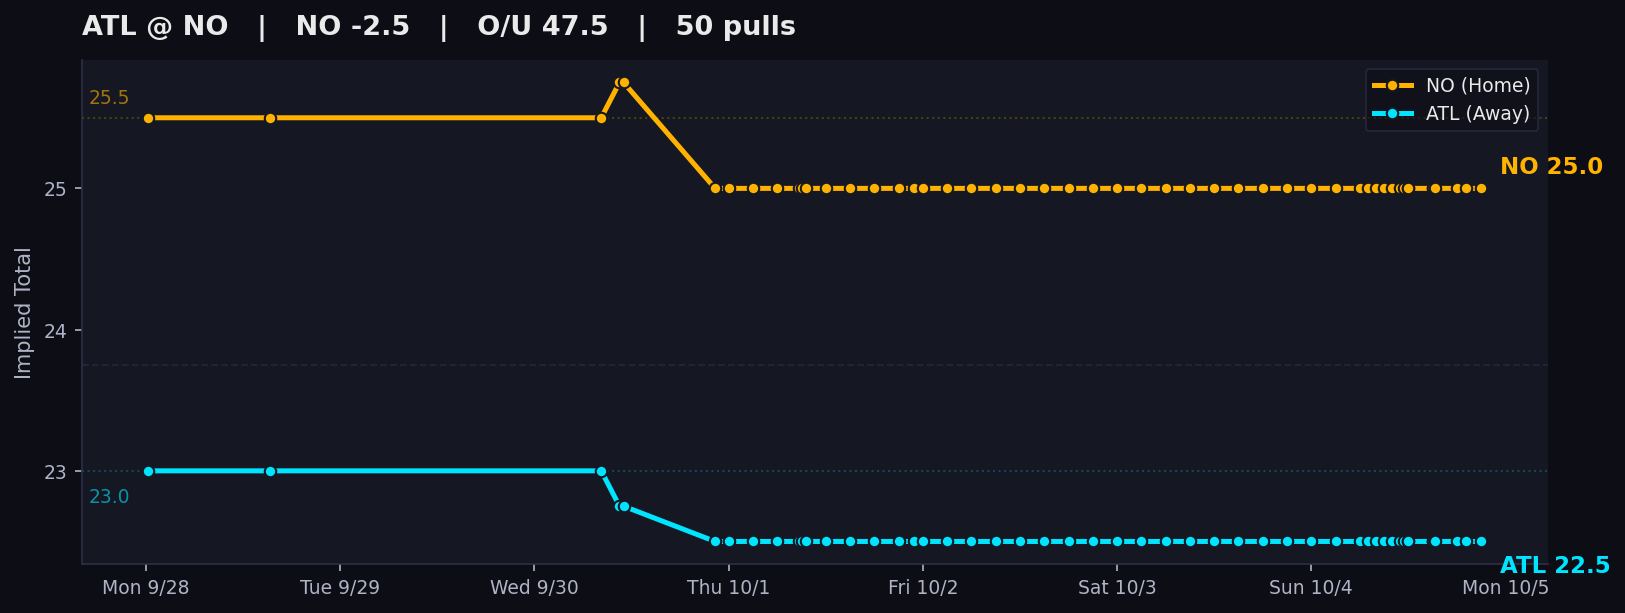
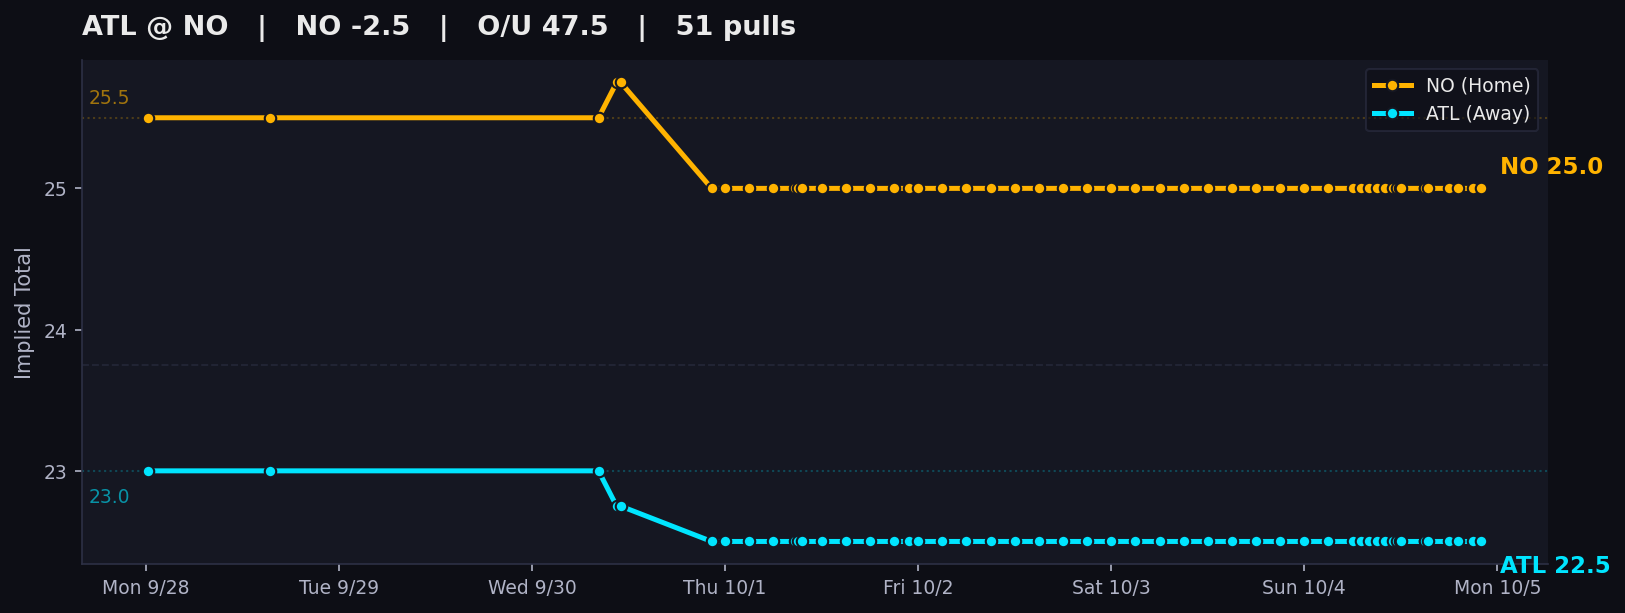
auto: local tracker sync

diff --git a/charts/index.html b/charts/index.html
@@ -311,7 +311,7 @@
     </div>
     <p class='sub'>
       DraftKings main lines &middot; Pinnacle cross-check &middot; Updated by the local Mac tracker<br>
-      Page rendered Sun Oct 04, 2026 9:00 PM CDT &middot; 755 valid chart dots &middot; 905 total pull attempts
+      Page rendered Sun Oct 04, 2026 10:00 PM CDT &middot; 756 valid chart dots &middot; 907 total pull attempts
       <span class='legend-box'>
         <span class='dot-teal'>● Away implied total</span>
         <span class='dot-amber'>● Home implied total</span>
@@ -324,9 +324,9 @@
     </details>
   </header>
 
-  <div id='feed-banner' class='alert-banner warning' data-banner-kind='failed' data-feed-ts='2026-10-05T02:00:02.062590+00:00' data-feed-ts-label='Sun Oct 04, 9:00 PM CDT'>
+  <div id='feed-banner' class='alert-banner warning' data-banner-kind='failed' data-feed-ts='2026-10-05T03:00:02.267186+00:00' data-feed-ts-label='Sun Oct 04, 10:00 PM CDT'>
             <span class='alert-icon'>⚠</span>
-            <b>SCRAPER DEGRADED:</b> Odds pull was incomplete at 9:00 PM CDT (Missing complete DraftKings market for 1 of 16 games: DET@ARI). Displaying the last verified line for affected games (oldest line: Sun Oct 04, 9:00 PM CDT, just now). Check the local runner log for details.
+            <b>SCRAPER DEGRADED:</b> Odds pull was incomplete at 10:00 PM CDT (Missing complete DraftKings market for 1 of 16 games: DET@ARI). Displaying the last verified line for affected games (oldest line: Sun Oct 04, 10:00 PM CDT, just now). Check the local runner log for details.
         </div>
 
   <nav class='filter-bar' aria-label='Filter games by slate'>
@@ -396,7 +396,7 @@
                 <div><span>Last valid pull</span><strong>Thu 6:00 PM CT</strong></div>
                 <div><span>Chart dots</span><strong>20</strong></div>
             </div>
-                    <img class='expanded-chart' src='PIT_CLE.png?v=1791165620' alt='PIT at CLE line movement chart'>
+                    <img class='expanded-chart' src='PIT_CLE.png?v=1791169220' alt='PIT at CLE line movement chart'>
                     <p class='movement-note'>Total 38.5 → 37.5</p>
                 </div>
             </td>
@@ -437,7 +437,7 @@
                 <div><span>Last valid pull</span><strong>8:00 AM CT</strong></div>
                 <div><span>Chart dots</span><strong>46</strong></div>
             </div>
-                    <img class='expanded-chart' src='IND_WAS.png?v=1791165620' alt='IND at WAS line movement chart'>
+                    <img class='expanded-chart' src='IND_WAS.png?v=1791169220' alt='IND at WAS line movement chart'>
                     <p class='movement-note'>Spread IND -3.5 → -4.5</p>
                 </div>
             </td>
@@ -478,7 +478,7 @@
                 <div><span>Last valid pull</span><strong>12:00 PM CT</strong></div>
                 <div><span>Chart dots</span><strong>50</strong></div>
             </div>
-                    <img class='expanded-chart' src='ARI_NYG.png?v=1791165620' alt='ARI at NYG line movement chart'>
+                    <img class='expanded-chart' src='ARI_NYG.png?v=1791169220' alt='ARI at NYG line movement chart'>
                     <p class='movement-note'>Spread ARI +1.5 → -2.5; Total 43.5 → 44.5</p>
                 </div>
             </td>
@@ -513,7 +513,7 @@
                 <div><span>Last valid pull</span><strong>12:00 PM CT</strong></div>
                 <div><span>Chart dots</span><strong>48</strong></div>
             </div>
-                    <img class='expanded-chart' src='LAR_PHI.png?v=1791165620' alt='LAR at PHI line movement chart'>
+                    <img class='expanded-chart' src='LAR_PHI.png?v=1791169220' alt='LAR at PHI line movement chart'>
                     <p class='movement-note'>Spread LAR -2.5 → -3.5; Total 46.5 → 42.5</p>
                 </div>
             </td>
@@ -548,7 +548,7 @@
                 <div><span>Last valid pull</span><strong>12:00 PM CT</strong></div>
                 <div><span>Chart dots</span><strong>50</strong></div>
             </div>
-                    <img class='expanded-chart' src='GB_TB.png?v=1791165620' alt='GB at TB line movement chart'>
+                    <img class='expanded-chart' src='GB_TB.png?v=1791169220' alt='GB at TB line movement chart'>
                     <p class='movement-note'>Total 42.5 → 38.5</p>
                 </div>
             </td>
@@ -583,7 +583,7 @@
                 <div><span>Last valid pull</span><strong>12:00 PM CT</strong></div>
                 <div><span>Chart dots</span><strong>48</strong></div>
             </div>
-                    <img class='expanded-chart' src='TEN_BAL.png?v=1791165620' alt='TEN at BAL line movement chart'>
+                    <img class='expanded-chart' src='TEN_BAL.png?v=1791169220' alt='TEN at BAL line movement chart'>
                     <p class='movement-note'>Total 43.5 → 42.5</p>
                 </div>
             </td>
@@ -618,7 +618,7 @@
                 <div><span>Last valid pull</span><strong>12:00 PM CT</strong></div>
                 <div><span>Chart dots</span><strong>51</strong></div>
             </div>
-                    <img class='expanded-chart' src='NE_BUF.png?v=1791165620' alt='NE at BUF line movement chart'>
+                    <img class='expanded-chart' src='NE_BUF.png?v=1791169220' alt='NE at BUF line movement chart'>
                     <p class='movement-note'>Total 48.5 → 49.5</p>
                 </div>
             </td>
@@ -653,7 +653,7 @@
                 <div><span>Last valid pull</span><strong>12:00 PM CT</strong></div>
                 <div><span>Chart dots</span><strong>50</strong></div>
             </div>
-                    <img class='expanded-chart' src='JAX_CIN.png?v=1791165620' alt='JAX at CIN line movement chart'>
+                    <img class='expanded-chart' src='JAX_CIN.png?v=1791169220' alt='JAX at CIN line movement chart'>
                     <p class='movement-note'>Total 50.5 → 51.5</p>
                 </div>
             </td>
@@ -688,7 +688,7 @@
                 <div><span>Last valid pull</span><strong>12:00 PM CT</strong></div>
                 <div><span>Chart dots</span><strong>50</strong></div>
             </div>
-                    <img class='expanded-chart' src='DAL_HOU.png?v=1791165620' alt='DAL at HOU line movement chart'>
+                    <img class='expanded-chart' src='DAL_HOU.png?v=1791169220' alt='DAL at HOU line movement chart'>
                     <p class='movement-note'>Spread HOU -2.5 → -3.0; Total 47.5 → 48.5</p>
                 </div>
             </td>
@@ -723,7 +723,7 @@
                 <div><span>Last valid pull</span><strong>12:00 PM CT</strong></div>
                 <div><span>Chart dots</span><strong>50</strong></div>
             </div>
-                    <img class='expanded-chart' src='NYJ_CHI.png?v=1791165620' alt='NYJ at CHI line movement chart'>
+                    <img class='expanded-chart' src='NYJ_CHI.png?v=1791169220' alt='NYJ at CHI line movement chart'>
                     <p class='movement-note'>Spread CHI -3.0 → -3.5; Total 42.5 → 43.5</p>
                 </div>
             </td>
@@ -764,7 +764,7 @@
                 <div><span>Last valid pull</span><strong>3:00 PM CT</strong></div>
                 <div><span>Chart dots</span><strong>49</strong></div>
             </div>
-                    <img class='expanded-chart' src='MIA_MIN.png?v=1791165620' alt='MIA at MIN line movement chart'>
+                    <img class='expanded-chart' src='MIA_MIN.png?v=1791169220' alt='MIA at MIN line movement chart'>
                     <p class='movement-note'>Total 39.5 → 38.5</p>
                 </div>
             </td>
@@ -799,7 +799,7 @@
                 <div><span>Last valid pull</span><strong>3:20 PM CT</strong></div>
                 <div><span>Chart dots</span><strong>50</strong></div>
             </div>
-                    <img class='expanded-chart' src='DEN_SF.png?v=1791165620' alt='DEN at SF line movement chart'>
+                    <img class='expanded-chart' src='DEN_SF.png?v=1791169220' alt='DEN at SF line movement chart'>
                     <p class='movement-note'>Total 46.5 → 47.5</p>
                 </div>
             </td>
@@ -834,7 +834,7 @@
                 <div><span>Last valid pull</span><strong>3:20 PM CT</strong></div>
                 <div><span>Chart dots</span><strong>47</strong></div>
             </div>
-                    <img class='expanded-chart' src='KC_LVR.png?v=1791165620' alt='KC at LVR line movement chart'>
+                    <img class='expanded-chart' src='KC_LVR.png?v=1791169220' alt='KC at LVR line movement chart'>
                     <p class='movement-note'>Spread KC -5.5 → -4.5</p>
                 </div>
             </td>
@@ -869,7 +869,7 @@
                 <div><span>Last valid pull</span><strong>3:20 PM CT</strong></div>
                 <div><span>Chart dots</span><strong>47</strong></div>
             </div>
-                    <img class='expanded-chart' src='LAC_SEA.png?v=1791165620' alt='LAC at SEA line movement chart'>
+                    <img class='expanded-chart' src='LAC_SEA.png?v=1791169220' alt='LAC at SEA line movement chart'>
                     <p class='movement-note'>Spread SEA -6.5 → -7.0; Total 43.5 → 42.5</p>
                 </div>
             </td>
@@ -910,7 +910,7 @@
                 <div><span>Last valid pull</span><strong>7:10 PM CT</strong></div>
                 <div><span>Chart dots</span><strong>49</strong></div>
             </div>
-                    <img class='expanded-chart' src='DET_CAR.png?v=1791165620' alt='DET at CAR line movement chart'>
+                    <img class='expanded-chart' src='DET_CAR.png?v=1791169220' alt='DET at CAR line movement chart'>
                     <p class='movement-note'>Spread DET -3.5 → -4.5; Total 50.5 → 51.5</p>
                 </div>
             </td>
@@ -926,13 +926,13 @@
             <td><b>NO -2.5</b></td>
             <td class='flat'>--</td>
             <td>48.5</td>
-            <td><b>47.5</b></td>
+            <td><b>47.5</b> <span class='div' title='Pinnacle divergence ≥ 1 pt'>*</span></td>
             <td class='delta'><span class='movement-badge'>1.0</span></td>
             <td class='it-away'>ATL 22.5</td>
             <td class='it-home'>NO 25.0</td>
             <td class='reason' title='Total 48.5 → 47.5'>Total 48.5 → 47.5</td>
-            <td style='text-align:center;'><span class='pill-fresh'>9:00 PM CT</span></td>
-            <td class='snaps'>50</td>
+            <td style='text-align:center;'><span class='pill-fresh'>10:00 PM CT</span></td>
+            <td class='snaps'>51</td>
         </tr>
         <tr id='desktop-panel-ATL_NO' class='chart-detail-row' data-slate='MNF' data-game-panel='ATL_NO' hidden>
             <td colspan='12'>
@@ -948,10 +948,10 @@
                 <div><span>Current total</span><strong>47.5</strong></div>
                 <div><span>Away implied</span><strong class='it-away'>ATL 22.5</strong></div>
                 <div><span>Home implied</span><strong class='it-home'>NO 25.0</strong></div>
-                <div><span>Last valid pull</span><strong>9:00 PM CT</strong></div>
-                <div><span>Chart dots</span><strong>50</strong></div>
+                <div><span>Last valid pull</span><strong>10:00 PM CT</strong></div>
+                <div><span>Chart dots</span><strong>51</strong></div>
             </div>
-                    <img class='expanded-chart' src='ATL_NO.png?v=1791165620' alt='ATL at NO line movement chart'>
+                    <img class='expanded-chart' src='ATL_NO.png?v=1791169220' alt='ATL at NO line movement chart'>
                     <p class='movement-note'>Total 48.5 → 47.5</p>
                 </div>
             </td>
@@ -986,7 +986,7 @@
                 <div><span>Last valid pull</span><strong>Thu 6:00 PM CT</strong></div>
                 <div><span>Chart dots</span><strong>20</strong></div>
             </div>
-                <img class='expanded-chart' src='PIT_CLE.png?v=1791165620' alt='PIT at CLE line movement chart'>
+                <img class='expanded-chart' src='PIT_CLE.png?v=1791169220' alt='PIT at CLE line movement chart'>
                 <p class='pull-note'><span class='pull-dot'></span> Every dot is a valid completed pull · 20 chart dots</p>
             </div>
         </article><article class='mobile-game-card closed-game' data-slate='OTHER_PRIMETIME' data-game='IND_WAS'>
@@ -1013,7 +1013,7 @@
                 <div><span>Last valid pull</span><strong>8:00 AM CT</strong></div>
                 <div><span>Chart dots</span><strong>46</strong></div>
             </div>
-                <img class='expanded-chart' src='IND_WAS.png?v=1791165620' alt='IND at WAS line movement chart'>
+                <img class='expanded-chart' src='IND_WAS.png?v=1791169220' alt='IND at WAS line movement chart'>
                 <p class='pull-note'><span class='pull-dot'></span> Every dot is a valid completed pull · 46 chart dots</p>
             </div>
         </article><article class='mobile-game-card closed-game' data-slate='SUN_EARLY' data-game='ARI_NYG'>
@@ -1040,7 +1040,7 @@
                 <div><span>Last valid pull</span><strong>12:00 PM CT</strong></div>
                 <div><span>Chart dots</span><strong>50</strong></div>
             </div>
-                <img class='expanded-chart' src='ARI_NYG.png?v=1791165620' alt='ARI at NYG line movement chart'>
+                <img class='expanded-chart' src='ARI_NYG.png?v=1791169220' alt='ARI at NYG line movement chart'>
                 <p class='pull-note'><span class='pull-dot'></span> Every dot is a valid completed pull · 50 chart dots</p>
             </div>
         </article><article class='mobile-game-card closed-game' data-slate='SUN_EARLY' data-game='LAR_PHI'>
@@ -1067,7 +1067,7 @@
                 <div><span>Last valid pull</span><strong>12:00 PM CT</strong></div>
                 <div><span>Chart dots</span><strong>48</strong></div>
             </div>
-                <img class='expanded-chart' src='LAR_PHI.png?v=1791165620' alt='LAR at PHI line movement chart'>
+                <img class='expanded-chart' src='LAR_PHI.png?v=1791169220' alt='LAR at PHI line movement chart'>
                 <p class='pull-note'><span class='pull-dot'></span> Every dot is a valid completed pull · 48 chart dots</p>
             </div>
         </article><article class='mobile-game-card closed-game' data-slate='SUN_EARLY' data-game='GB_TB'>
@@ -1094,7 +1094,7 @@
                 <div><span>Last valid pull</span><strong>12:00 PM CT</strong></div>
                 <div><span>Chart dots</span><strong>50</strong></div>
             </div>
-                <img class='expanded-chart' src='GB_TB.png?v=1791165620' alt='GB at TB line movement chart'>
+                <img class='expanded-chart' src='GB_TB.png?v=1791169220' alt='GB at TB line movement chart'>
                 <p class='pull-note'><span class='pull-dot'></span> Every dot is a valid completed pull · 50 chart dots</p>
             </div>
         </article><article class='mobile-game-card closed-game' data-slate='SUN_EARLY' data-game='TEN_BAL'>
@@ -1121,7 +1121,7 @@
                 <div><span>Last valid pull</span><strong>12:00 PM CT</strong></div>
                 <div><span>Chart dots</span><strong>48</strong></div>
             </div>
-                <img class='expanded-chart' src='TEN_BAL.png?v=1791165620' alt='TEN at BAL line movement chart'>
+                <img class='expanded-chart' src='TEN_BAL.png?v=1791169220' alt='TEN at BAL line movement chart'>
                 <p class='pull-note'><span class='pull-dot'></span> Every dot is a valid completed pull · 48 chart dots</p>
             </div>
         </article><article class='mobile-game-card closed-game' data-slate='SUN_EARLY' data-game='NE_BUF'>
@@ -1148,7 +1148,7 @@
                 <div><span>Last valid pull</span><strong>12:00 PM CT</strong></div>
                 <div><span>Chart dots</span><strong>51</strong></div>
             </div>
-                <img class='expanded-chart' src='NE_BUF.png?v=1791165620' alt='NE at BUF line movement chart'>
+                <img class='expanded-chart' src='NE_BUF.png?v=1791169220' alt='NE at BUF line movement chart'>
                 <p class='pull-note'><span class='pull-dot'></span> Every dot is a valid completed pull · 51 chart dots</p>
             </div>
         </article><article class='mobile-game-card closed-game' data-slate='SUN_EARLY' data-game='JAX_CIN'>
@@ -1175,7 +1175,7 @@
                 <div><span>Last valid pull</span><strong>12:00 PM CT</strong></div>
                 <div><span>Chart dots</span><strong>50</strong></div>
             </div>
-                <img class='expanded-chart' src='JAX_CIN.png?v=1791165620' alt='JAX at CIN line movement chart'>
+                <img class='expanded-chart' src='JAX_CIN.png?v=1791169220' alt='JAX at CIN line movement chart'>
                 <p class='pull-note'><span class='pull-dot'></span> Every dot is a valid completed pull · 50 chart dots</p>
             </div>
         </article><article class='mobile-game-card closed-game' data-slate='SUN_EARLY' data-game='DAL_HOU'>
@@ -1202,7 +1202,7 @@
                 <div><span>Last valid pull</span><strong>12:00 PM CT</strong></div>
                 <div><span>Chart dots</span><strong>50</strong></div>
             </div>
-                <img class='expanded-chart' src='DAL_HOU.png?v=1791165620' alt='DAL at HOU line movement chart'>
+                <img class='expanded-chart' src='DAL_HOU.png?v=1791169220' alt='DAL at HOU line movement chart'>
                 <p class='pull-note'><span class='pull-dot'></span> Every dot is a valid completed pull · 50 chart dots</p>
             </div>
         </article><article class='mobile-game-card closed-game' data-slate='SUN_EARLY' data-game='NYJ_CHI'>
@@ -1229,7 +1229,7 @@
                 <div><span>Last valid pull</span><strong>12:00 PM CT</strong></div>
                 <div><span>Chart dots</span><strong>50</strong></div>
             </div>
-                <img class='expanded-chart' src='NYJ_CHI.png?v=1791165620' alt='NYJ at CHI line movement chart'>
+                <img class='expanded-chart' src='NYJ_CHI.png?v=1791169220' alt='NYJ at CHI line movement chart'>
                 <p class='pull-note'><span class='pull-dot'></span> Every dot is a valid completed pull · 50 chart dots</p>
             </div>
         </article><article class='mobile-game-card closed-game' data-slate='SUN_LATE' data-game='MIA_MIN'>
@@ -1256,7 +1256,7 @@
                 <div><span>Last valid pull</span><strong>3:00 PM CT</strong></div>
                 <div><span>Chart dots</span><strong>49</strong></div>
             </div>
-                <img class='expanded-chart' src='MIA_MIN.png?v=1791165620' alt='MIA at MIN line movement chart'>
+                <img class='expanded-chart' src='MIA_MIN.png?v=1791169220' alt='MIA at MIN line movement chart'>
                 <p class='pull-note'><span class='pull-dot'></span> Every dot is a valid completed pull · 49 chart dots</p>
             </div>
         </article><article class='mobile-game-card closed-game' data-slate='SUN_LATE' data-game='DEN_SF'>
@@ -1283,7 +1283,7 @@
                 <div><span>Last valid pull</span><strong>3:20 PM CT</strong></div>
                 <div><span>Chart dots</span><strong>50</strong></div>
             </div>
-                <img class='expanded-chart' src='DEN_SF.png?v=1791165620' alt='DEN at SF line movement chart'>
+                <img class='expanded-chart' src='DEN_SF.png?v=1791169220' alt='DEN at SF line movement chart'>
                 <p class='pull-note'><span class='pull-dot'></span> Every dot is a valid completed pull · 50 chart dots</p>
             </div>
         </article><article class='mobile-game-card closed-game' data-slate='SUN_LATE' data-game='KC_LVR'>
@@ -1310,7 +1310,7 @@
                 <div><span>Last valid pull</span><strong>3:20 PM CT</strong></div>
                 <div><span>Chart dots</span><strong>47</strong></div>
             </div>
-                <img class='expanded-chart' src='KC_LVR.png?v=1791165620' alt='KC at LVR line movement chart'>
+                <img class='expanded-chart' src='KC_LVR.png?v=1791169220' alt='KC at LVR line movement chart'>
                 <p class='pull-note'><span class='pull-dot'></span> Every dot is a valid completed pull · 47 chart dots</p>
             </div>
         </article><article class='mobile-game-card closed-game' data-slate='SUN_LATE' data-game='LAC_SEA'>
@@ -1337,7 +1337,7 @@
                 <div><span>Last valid pull</span><strong>3:20 PM CT</strong></div>
                 <div><span>Chart dots</span><strong>47</strong></div>
             </div>
-                <img class='expanded-chart' src='LAC_SEA.png?v=1791165620' alt='LAC at SEA line movement chart'>
+                <img class='expanded-chart' src='LAC_SEA.png?v=1791169220' alt='LAC at SEA line movement chart'>
                 <p class='pull-note'><span class='pull-dot'></span> Every dot is a valid completed pull · 47 chart dots</p>
             </div>
         </article><article class='mobile-game-card closed-game' data-slate='SNF' data-game='DET_CAR'>
@@ -1364,7 +1364,7 @@
                 <div><span>Last valid pull</span><strong>7:10 PM CT</strong></div>
                 <div><span>Chart dots</span><strong>49</strong></div>
             </div>
-                <img class='expanded-chart' src='DET_CAR.png?v=1791165620' alt='DET at CAR line movement chart'>
+                <img class='expanded-chart' src='DET_CAR.png?v=1791169220' alt='DET at CAR line movement chart'>
                 <p class='pull-note'><span class='pull-dot'></span> Every dot is a valid completed pull · 49 chart dots</p>
             </div>
         </article><article class='mobile-game-card ' data-slate='MNF' data-game='ATL_NO'>
@@ -1388,11 +1388,11 @@
                 <div><span>Current total</span><strong>47.5</strong></div>
                 <div><span>Away implied</span><strong class='it-away'>ATL 22.5</strong></div>
                 <div><span>Home implied</span><strong class='it-home'>NO 25.0</strong></div>
-                <div><span>Last valid pull</span><strong>9:00 PM CT</strong></div>
-                <div><span>Chart dots</span><strong>50</strong></div>
+                <div><span>Last valid pull</span><strong>10:00 PM CT</strong></div>
+                <div><span>Chart dots</span><strong>51</strong></div>
             </div>
-                <img class='expanded-chart' src='ATL_NO.png?v=1791165620' alt='ATL at NO line movement chart'>
-                <p class='pull-note'><span class='pull-dot'></span> Every dot is a valid completed pull · 50 chart dots</p>
+                <img class='expanded-chart' src='ATL_NO.png?v=1791169220' alt='ATL at NO line movement chart'>
+                <p class='pull-note'><span class='pull-dot'></span> Every dot is a valid completed pull · 51 chart dots</p>
             </div>
         </article>
   </section>
